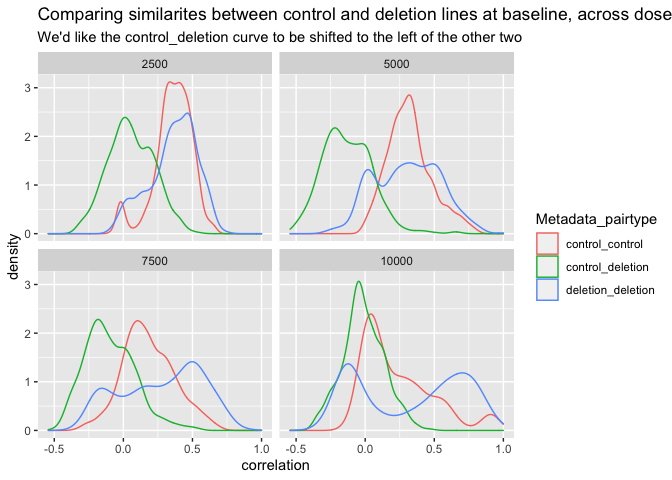
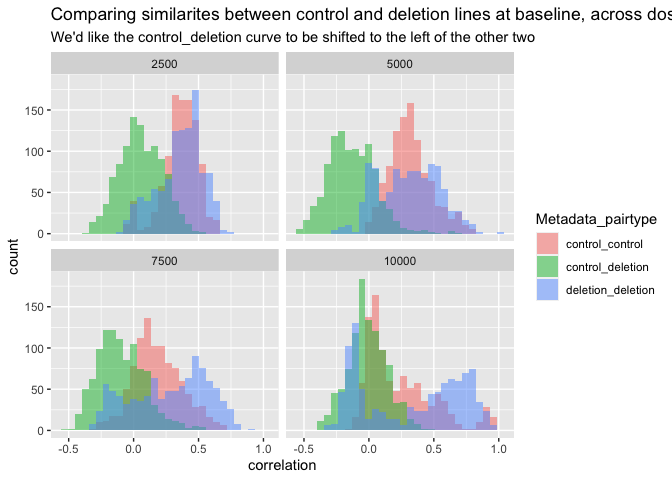
histogram

diff --git a/1.main-run-workflows/1.inspect-profiles-pilot3.md b/1.main-run-workflows/1.inspect-profiles-pilot3.md
@@ -612,16 +612,16 @@ well_level_similarity_to_untrt %>%
 
 | Metadata\_plating\_density2 | Metadata\_line\_condition2 | Metadata\_compound\_ID2 | Metadata\_Well2 |   n |
 |----------------------------:|:---------------------------|:------------------------|:----------------|----:|
-|                        5000 | deletion                   | BRD-K21680192-300-14-4  | P23             |  32 |
-|                        2500 | control                    | BRD-K79131256-001-17-9  | A03             |  32 |
-|                        5000 | control                    | BRD-K21680192-300-14-4  | F23             |  32 |
-|                        5000 | deletion                   | BRD-K21680192-300-14-4  | D23             |  32 |
-|                        5000 | control                    | BRD-K79131256-001-17-9  | B11             |  32 |
-|                        5000 | control                    | BRD-K21680192-300-14-4  | B23             |  32 |
-|                       10000 | control                    | BRD-K36207157-001-09-6  | I04             |  32 |
-|                        7500 | control                    | BRD-K36207157-001-09-6  | N08             |  32 |
-|                        7500 | deletion                   | BRD-K79131256-001-17-9  | L20             |  32 |
-|                        2500 | control                    | BRD-K36207157-001-09-6  | A13             |  32 |
+|                        5000 | deletion                   | BRD-K36207157-001-09-6  | H17             |  32 |
+|                        7500 | control                    | BRD-K36207157-001-09-6  | J08             |  32 |
+|                       10000 | control                    | BRD-K36207157-001-09-6  | A04             |  32 |
+|                        5000 | deletion                   | BRD-K36207157-001-09-6  | L17             |  32 |
+|                        2500 | deletion                   | BRD-K21680192-300-14-4  | C11             |  33 |
+|                        2500 | control                    | BRD-K36207157-001-09-6  | M13             |  32 |
+|                        2500 | control                    | BRD-K36207157-001-09-6  | E13             |  32 |
+|                        2500 | deletion                   | BRD-K79131256-001-17-9  | C03             |  33 |
+|                        7500 | control                    | BRD-K79131256-001-17-9  | F20             |  32 |
+|                       10000 | control                    | BRD-K36207157-001-09-6  | E04             |  32 |
 
 ``` r
 reps <-
@@ -685,10 +685,12 @@ well_level_similarity_control_deletion <-
 
 well_level_similarity_control_deletion %>%
   filter(Metadata_pairtype != "other") %>%
-  ggplot(aes(correlation, color = Metadata_pairtype)) + geom_density() + facet_wrap(~Metadata_plating_density1) +
+  ggplot(aes(correlation, fill = Metadata_pairtype)) + geom_histogram(alpha = 0.5, position="identity") + facet_wrap(~Metadata_plating_density1) +
   ggtitle("Comparing similarites between control and deletion lines at baseline, across doses",
           "We'd like the control_deletion curve to be shifted to the left of the other two")
 ```
+
+    ## `stat_bin()` using `bins = 30`. Pick better value with `binwidth`.
 
 ![](1.inspect-profiles-pilot3_files/figure-gfm/unnamed-chunk-26-1.png)<!-- -->
 
